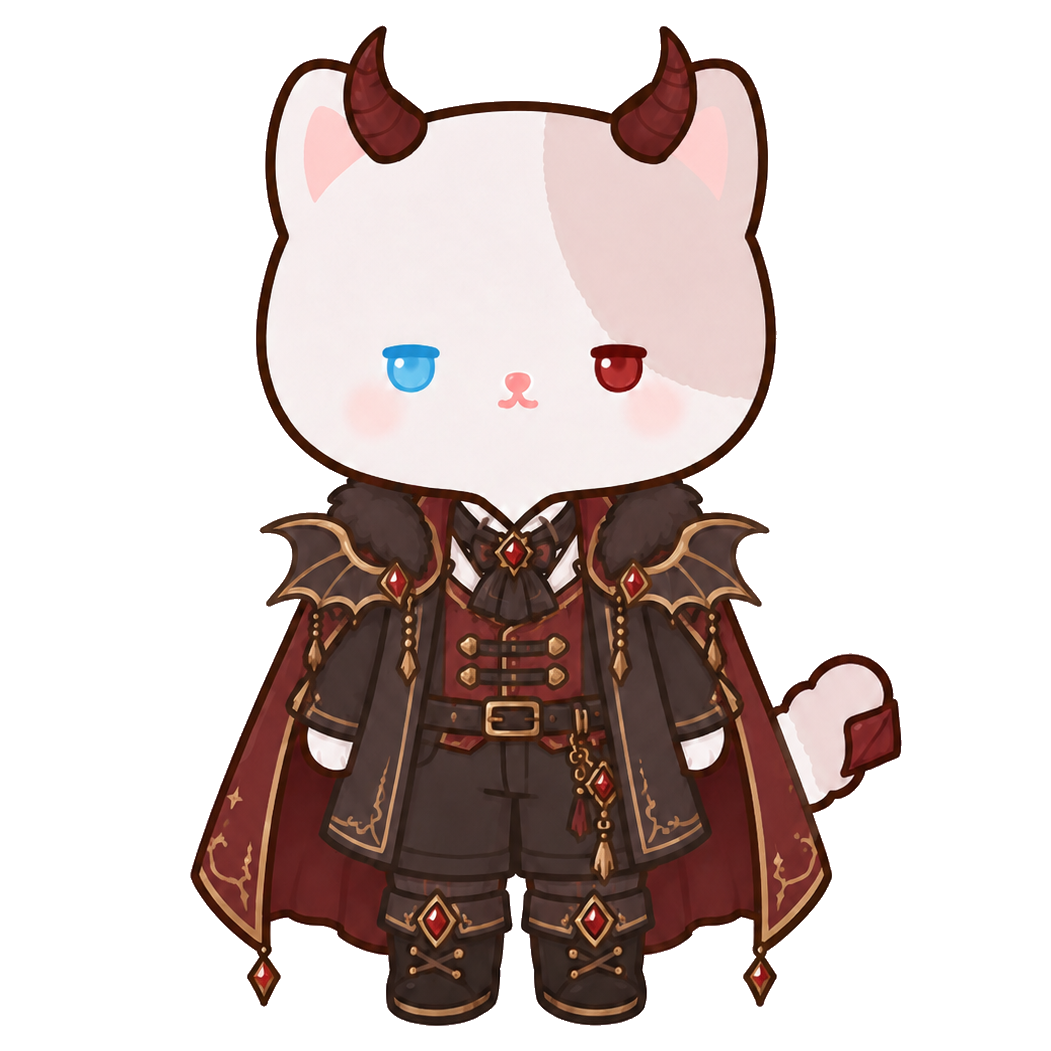
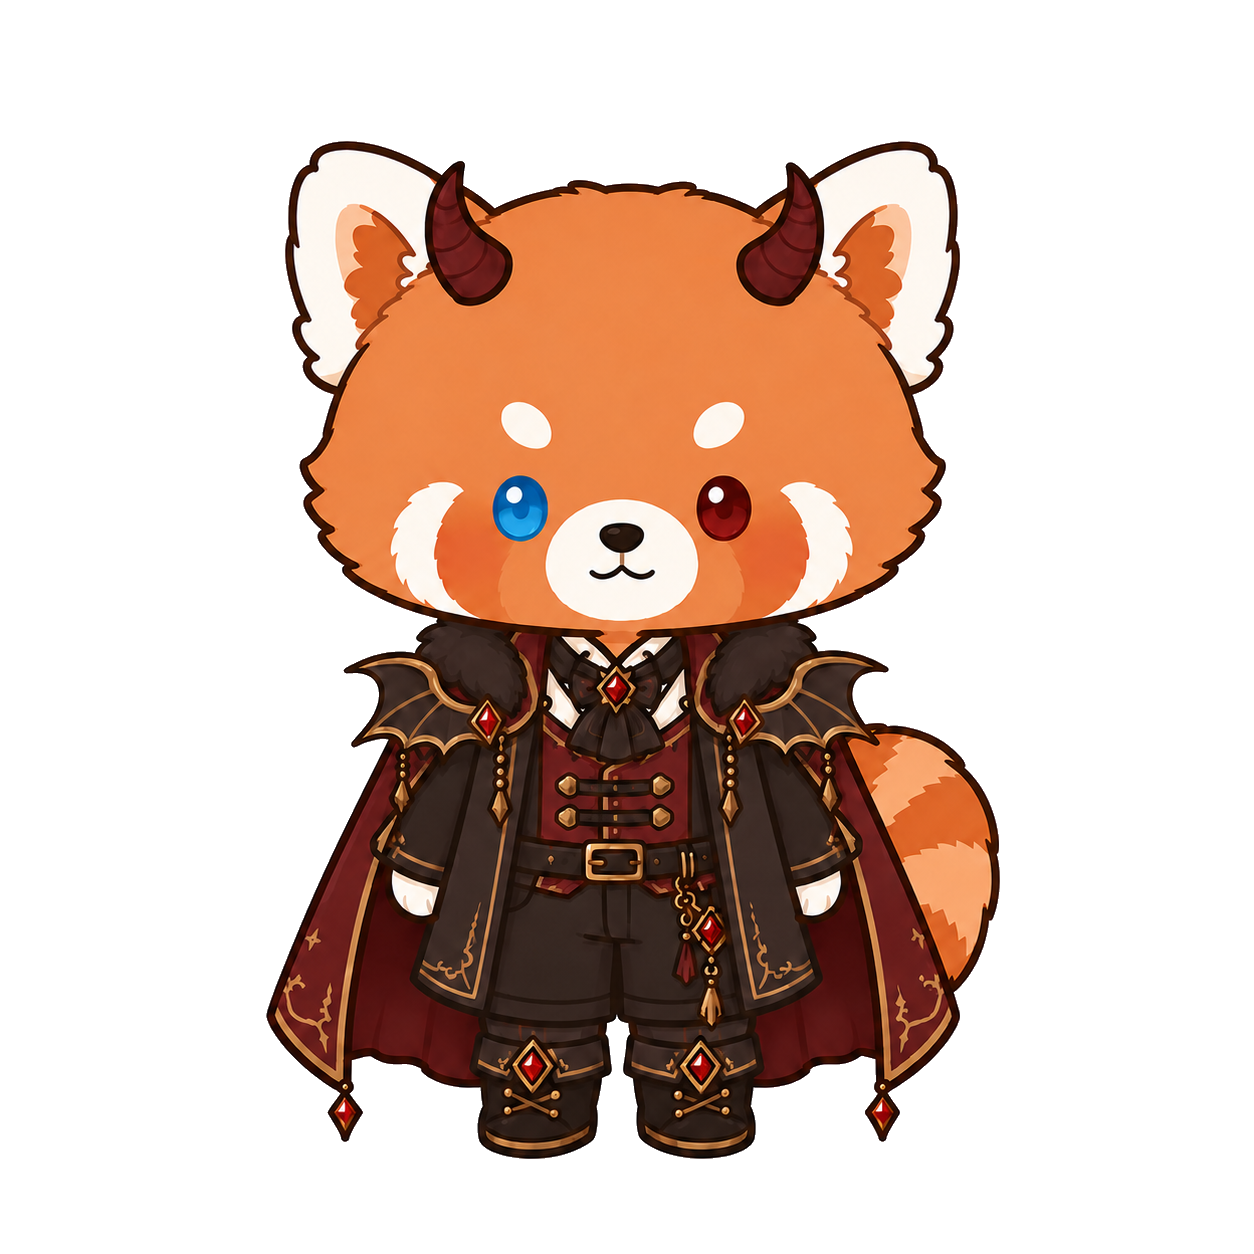
feat(companion): rename Cocoa → Aki + new Miel/Tira skin art
- Rename the Cocoa companion to Aki across all 6 languages (name, away
  title, demon-outfit description, both lore stories): JA/ZH 秋, KO 아키,
  EN/ES/FR Aki. Tira's cocoa-powder mentions intentionally left as-is.
- Fix demon outfit rendering raw "Demon Cocoa" → localized "Demon"
  (outfitNames.demon).
- New skin art: Miel classic/zzz/champion, Tira choco-mint, Aki fox —
  opaque backgrounds cut to transparent; figure-calibration regenerated.
- Loading splash: swap loading10/12 → loading13.

diff --git a/src/constants/figure-calibration.ts b/src/constants/figure-calibration.ts
@@ -13,13 +13,13 @@ export const FIGURE_METRICS: Record<string, { fill: number; pad: number }> = {
   'companion_bunny/classic': { fill: 0.8939, pad: 0.0502 },
   'companion_bunny/jiraikei': { fill: 0.8190, pad: 0.0750 },
   'companion_bunny/palace': { fill: 0.9370, pad: 0.0407 },
-  'companion_cocoa/classic': { fill: 0.9514, pad: 0.0253 },
-  'companion_cocoa/demon': { fill: 0.9524, pad: 0.0238 },
-  'companion_honey/champion': { fill: 0.9275, pad: 0.0435 },
-  'companion_honey/classic': { fill: 0.9282, pad: 0.0431 },
-  'companion_honey/zzz': { fill: 0.9234, pad: 0.0431 },
+  'companion_cocoa/classic': { fill: 0.8708, pad: 0.0614 },
+  'companion_cocoa/demon': { fill: 0.8118, pad: 0.0758 },
+  'companion_honey/champion': { fill: 0.8325, pad: 0.0845 },
+  'companion_honey/classic': { fill: 0.9537, pad: 0.0255 },
+  'companion_honey/zzz': { fill: 0.8644, pad: 0.0526 },
   'companion_tira/afternoontrain': { fill: 0.8788, pad: 0.0502 },
-  'companion_tira/chocomint': { fill: 0.8796, pad: 0.0494 },
+  'companion_tira/chocomint': { fill: 0.8828, pad: 0.0423 },
   'companion_tira/classic': { fill: 0.8788, pad: 0.0502 },
   'companion_tira/sleepover': { fill: 0.8796, pad: 0.0494 },
   'hanji/classic': { fill: 0.8692, pad: 0.0582 },

diff --git a/src/app/_layout.tsx b/src/app/_layout.tsx
@@ -41,13 +41,12 @@ const LOADING_IMGS = [
   require('@/assets/images/home/loading11.png'),
   require('@/assets/images/home/loading8.png'),
   require('@/assets/images/home/loading9.png'),
-  require('@/assets/images/home/loading10.png'),
-  require('@/assets/images/home/loading12.png'),
+  require('@/assets/images/home/loading13.png'),
 ];
 
 // Index-aligned with LOADING_IMGS: true where the art's bottom (under the label)
 // is too dark or too pink for the default pink label to read — use white there.
-const LOADING_TEXT_WHITE = [true, true, true, true, false, true];
+const LOADING_TEXT_WHITE = [true, true, true, true, true];
 
 // Full-screen loading splash shown OVER the app — the home screen mounts behind
 // it (loading its art) and stays hidden until everything is ready. Only when

diff --git a/src/constants/shop-data.ts b/src/constants/shop-data.ts
@@ -160,9 +160,9 @@ export const SHOP_ITEMS: ShopItem[] = [
   },
   {
     id: 'outfit_cocoa_demon',
-    name: 'Demon Cocoa',
+    name: 'Demon',
     emoji: '',
-    description: "A gothic demon-lord coat with horns, bat wings & a spade tail. Wear it from Cocoa's Wardrobe.",
+    description: "A gothic demon-lord coat with horns, bat wings & a spade tail. Wear it from Aki's Wardrobe.",
     price: 10000,
     category: 'outfits',
     image: require('@/assets/images/cocoa/cocoa-demon.png'),
